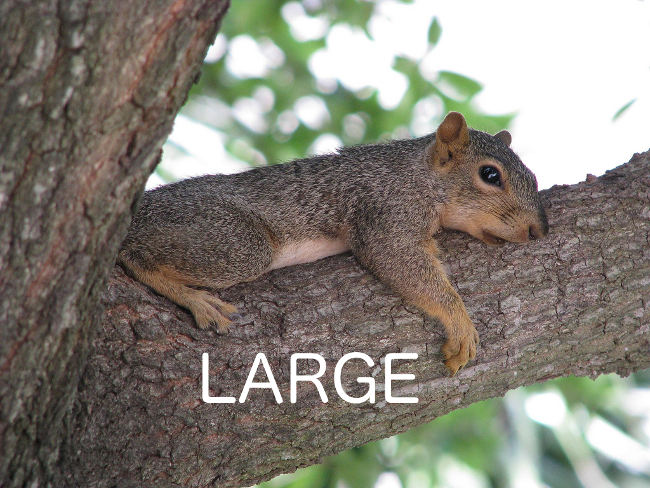
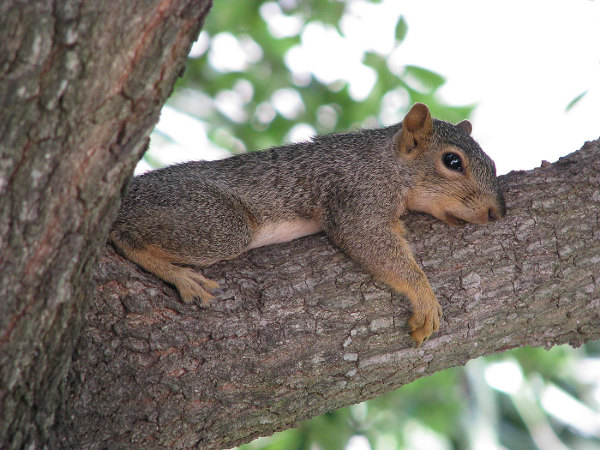
pic edits
took out writing on squirrel image

diff --git a/assignments/weathersite/franklin.html b/assignments/weathersite/franklin.html
@@ -96,7 +96,7 @@
 
         <figure class="img">
             <picture class="franklin-hot-img">
-                <img src="images/franklin/hotday-original.jpg" srcset="images/franklin/hotday-small.jpg 800w, images/franklin/hotday-medium.jpg 1000w, images/franklin/hotday-large.jpg 2000w" alt="tuckered out squirrel">
+                <img src="images/franklin/hotday.jpg" srcset="images/franklin/hotday-small.jpg 800w, images/franklin/hotday-medium.jpg 1000w, images/franklin/hotday-large.jpg 2000w" alt="tuckered out squirrel">
             </picture>
         </figure>
         <div class="town-article">
